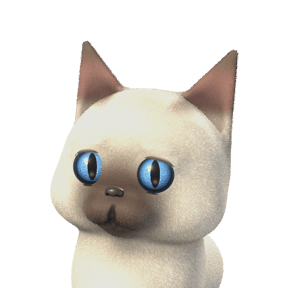
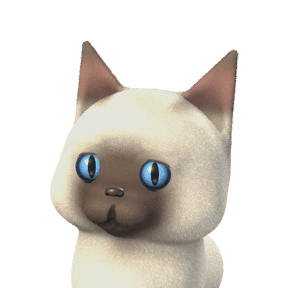
Neue Modelle: Katze, Siamkatze, Fuchs, Reh
Augen auf 0,155-0,17 (bleiben etwas groesser als echt), feinere Tigerung,
kraeftigere Siam-Maske, Reh mit laengerem Fell. Seeotter-Feinschliff im
Werkzeug. Alle drei Ausdruecke.

pruef-alles 9/9.

Changed region(s): [[0.2188, 0.4688, 0.6562, 0.8125], [0.4375, 0.8125, 0.4688, 0.8438]]

diff --git a/tools/figuren_rendern/Tiere.swift b/tools/figuren_rendern/Tiere.swift
@@ -486,7 +486,7 @@ func fuchs() -> (SCNNode, Float, V) {
     })
     let w = SCNNode(); w.addChildNode(brustKnoten(koerper))
     tierNase(w, mitte: V(0, -0.290, 1.740), r: V(0.115, 0.08, 0.10), farbe: hex("#161112"))
-    augenEinsetzen(w, kopf, x: 0.34, y: 0.18, r: 0.205, iris: NSColor(calibratedRed: 0.93, green: 0.63, blue: 0.16, alpha: 1), pupille: 0.62, schlitz: true, schlitzBreite: 0.52, ausdruck: Ausdruck(oben: 0.03, unten: 0.10, schraeg: 0.04, funke: 1.6, wange: 0.30))
+    augenEinsetzen(w, kopf, x: 0.34, y: 0.18, r: 0.17, iris: NSColor(calibratedRed: 0.93, green: 0.63, blue: 0.16, alpha: 1), pupille: 0.62, schlitz: true, schlitzBreite: 0.52, ausdruck: Ausdruck(oben: 0.03, unten: 0.10, schraeg: 0.04, funke: 1.6, wange: 0.30))
     // Kopfhaltung je Tier verschieden (Auftrag des Inhabers: nicht alle in dieselbe Richtung).
     w.eulerAngles = SCNVector3(0.08, -0.48, -0.06)
     return (w, 7.6, V(0, 0.22, 0.2))
@@ -511,9 +511,9 @@ func katze() -> (SCNNode, Float, V) {
         var c = farbeMitRauschen(rot, p, 0.07)
         // Tigerung: Streifen quer ueber Stirn und Wangen, auf der Stirn das "M".
         // feine Linien wie bei einer echten Tigerkatze: das "M" auf der Stirn, Linien ueber die Wangen
-        let band = sinf(p.x * 24 + sinf(p.y * 4) * 1.2 + fbm(p * 3) * 2) * 0.5 + 0.5
-        let stirn = glatt(0.30, 0.55, p.y) * glatt(0.62, 0.2, abs(p.x)) * glatt(0.80, 0.90, band)
-        let wange = glatt(0.35, 0.65, abs(p.x)) * glatt(0.82, 0.92, sinf(p.y * 20 + abs(p.x) * 5 + fbm(p * 3) * 2) * 0.5 + 0.5)
+        let band = sinf(p.x * 36 + sinf(p.y * 4) * 1.2 + fbm(p * 3) * 2) * 0.5 + 0.5
+        let stirn = glatt(0.30, 0.55, p.y) * glatt(0.62, 0.2, abs(p.x)) * glatt(0.86, 0.95, band)
+        let wange = glatt(0.35, 0.65, abs(p.x)) * glatt(0.87, 0.95, sinf(p.y * 30 + abs(p.x) * 5 + fbm(p * 3) * 2) * 0.5 + 0.5)
         c = mische(c, streifen, (stirn + wange * 0.8) * glatt(-0.4, 0.2, p.y + 0.5))
         // Weiss: Schnurrhaarpolster, Kinn.
         let weissAnteil = glatt(-0.08, -0.18, p.y) * glatt(0.35, 0.65, p.z) + glatt(-0.30, -0.42, p.y)
@@ -545,7 +545,7 @@ func katze() -> (SCNNode, Float, V) {
     })
     let w = SCNNode(); w.addChildNode(brustKnoten(koerper))
     tierNase(w, mitte: V(0, -0.08, 0.93), r: V(0.095, 0.06, 0.06), farbe: hex("#C97F7C"), dreieck: true)
-    augenEinsetzen(w, kopf, x: 0.33, y: 0.12, r: 0.21, iris: NSColor(calibratedRed: 0.62, green: 0.74, blue: 0.22, alpha: 1), pupille: 0.55, schlitz: true, schlitzBreite: 0.62, ausdruck: Ausdruck(oben: 0.10, unten: 0.07, schraeg: 0.14, funke: 1.5, wange: 0.40))
+    augenEinsetzen(w, kopf, x: 0.33, y: 0.12, r: 0.17, iris: NSColor(calibratedRed: 0.62, green: 0.74, blue: 0.22, alpha: 1), pupille: 0.55, schlitz: true, schlitzBreite: 0.62, ausdruck: Ausdruck(oben: 0.10, unten: 0.07, schraeg: 0.14, funke: 1.5, wange: 0.40))
     w.eulerAngles = SCNVector3(0.06, 0.34, 0.12)
     return (w, 7.3, V(0, 0.18, 0))
 }
@@ -731,10 +731,10 @@ func reh() -> (SCNNode, Float, V) {
     }, rauheit: 0.75, fell: 0.06)
     // Reh: nur ein Hauch heller ueber dem Auge (weisse Brauen hat es nicht); kurzes, anliegendes Fell.
     var (braue, braueM) = mitBrauen(kopf, x: 0.34, y: 0.41, laenge: 0.11, dicke: 0.045, winkel: 0.2, farbe: mische(braun, weiss, 0.30), staerke: 0.45, wulst: 0.6)
-    braue.haar = haarKarte(kopf, FellKarte(kopf: 0.025, rumpf: 0.03, nase: V(0, -0.360, 1.380), schnauze: 0.6,
+    braue.haar = haarKarte(kopf, FellKarte(kopf: 0.045, rumpf: 0.055, nase: V(0, -0.360, 1.380), schnauze: 0.6,
         augen: augenStellen(kopf, x: 0.36, y: 0.22), augenR: 0.17, braue: 0.3,
         zonen: beide(V(0.92, 0.62, -0.18), V(0.55, 0.30, 0.25), 0.6)), braue: braueM)
-    braue.fellArt = Fell(dichte: 100, aufrecht: 0.2, neigung: 1.6, ursprung: V(0, -0.360, 1.380), straehnen: 0.15)
+    braue.fellArt = Fell(dichte: 120, aufrecht: 0.28, neigung: 1.6, ursprung: V(0, -0.360, 1.380), wurzel: 0.58, spitze: 1.18, straehnen: 0.2, streuung: 0.16)
     // Reh: geschlossenes, schmales Maul tief an der Schnauzenspitze, mit kaum angehobenem Winkel — sanft.
     let maul = mitMaul(braue, Maul(kurven: [Kurve(punkte: [V(0, -0.470, 1.440), V(0, -0.525, 1.420)], spitzHinten: false)]
         + paar(Kurve(punkte: [V(0, -0.525, 1.420), V(0.08, -0.550, 1.350), V(0.15, -0.540, 1.230), V(0.20, -0.500, 1.120)], spitzVorn: false)),
@@ -747,7 +747,7 @@ func reh() -> (SCNNode, Float, V) {
     })
     let w = SCNNode(); w.addChildNode(brustKnoten(koerper))
     tierNase(w, mitte: V(0, -0.360, 1.380), r: V(0.18, 0.12, 0.10), farbe: hex("#141011"))
-    augenEinsetzen(w, kopf, x: 0.36, y: 0.22, r: 0.19, iris: NSColor(calibratedRed: 0.26, green: 0.14, blue: 0.08, alpha: 1), pupille: 0.55, aussen: 0.45, ausdruck: Ausdruck(oben: 0.14, unten: 0.05, schraeg: 0.26, funke: 1.5, wange: 0.40))
+    augenEinsetzen(w, kopf, x: 0.36, y: 0.22, r: 0.155, iris: NSColor(calibratedRed: 0.26, green: 0.14, blue: 0.08, alpha: 1), pupille: 0.55, aussen: 0.45, ausdruck: Ausdruck(oben: 0.14, unten: 0.05, schraeg: 0.26, funke: 1.5, wange: 0.40))
     w.eulerAngles = SCNVector3(0.10, 0.48, 0.04)
     return (w, 8.0, V(0, 0.15, 0.2))
 }
@@ -1143,8 +1143,8 @@ func seeotter() -> (SCNNode, Float, V) {
     let braun = hex("#5B3B27"), kopfHell = hex("#CBB497"), polster = hex("#E3D3BD")
     var formen: [Form] = [
         Form(art: .ellipsoid(V(0.92, 0.80, 0.84)), mitte: V(0, 0.08, 0)),
-        Form(art: .ellipsoid(V(0.27, 0.21, 0.23)), mitte: V(-0.21, -0.26, 0.80), weich: 0.18),
-        Form(art: .ellipsoid(V(0.27, 0.21, 0.23)), mitte: V(0.21, -0.26, 0.80), weich: 0.18),
+        Form(art: .ellipsoid(V(0.32, 0.25, 0.25)), mitte: V(-0.23, -0.27, 0.80), weich: 0.18),
+        Form(art: .ellipsoid(V(0.32, 0.25, 0.25)), mitte: V(0.23, -0.27, 0.80), weich: 0.18),
         Form(art: .ellipsoid(V(0.20, 0.15, 0.18)), mitte: V(0, -0.38, 0.74), weich: 0.16),
     ]
     for sx: Float in [-1, 1] {
@@ -1162,7 +1162,7 @@ func seeotter() -> (SCNNode, Float, V) {
     }, rauheit: 0.80, fell: 0.07)
     var (braue, braueM) = mitBrauen(kopf, x: 0.30, y: 0.38, laenge: 0.11, dicke: 0.05, winkel: 0.20, farbe: mische(kopfHell, polster, 0.5), staerke: 0.6)
     braue.haar = haarKarte(kopf, FellKarte(kopf: 0.06, rumpf: 0.09, nase: V(0, -0.12, 1.02), schnauze: 0.35,
-        augen: augenStellen(kopf, x: 0.33, y: 0.20), augenR: 0.12,
+        augen: augenStellen(kopf, x: 0.36, y: 0.22), augenR: 0.10,
         zonen: beide(V(0.21, -0.26, 0.85), V(0.27, 0.21, 0.23), 0.8)), braue: braueM)
     braue.fellArt = Fell(dichte: 75, ursprung: V(0, -0.12, 1.10), straehnen: 0.4)
     let maul = mitMaul(braue, Maul(kurven: [Kurve(punkte: [V(0, -0.24, 1.03), V(0, -0.33, 1.00), V(0, -0.40, 0.95)], spitzHinten: false)]
@@ -1173,8 +1173,8 @@ func seeotter() -> (SCNNode, Float, V) {
         mische(farbeMitRauschen(braun, p, 0.08), farbeMitRauschen(kopfHell, p, 0.06), latz(p, breite: 0.22) * 0.12)
     })
     let w = SCNNode(); w.addChildNode(brustKnoten(koerper))
-    tierNase(w, mitte: V(0, -0.12, 1.02), r: V(0.16, 0.11, 0.10), farbe: hex("#1A1310"))
-    augenEinsetzen(w, kopf, x: 0.33, y: 0.20, r: 0.13, iris: NSColor(calibratedRed: 0.12, green: 0.08, blue: 0.06, alpha: 1), pupille: 0.7, ausdruck: Ausdruck(oben: 0.08, unten: 0.04, schraeg: 0.15, funke: 1.7))
+    tierNase(w, mitte: V(0, -0.12, 1.02), r: V(0.19, 0.12, 0.10), farbe: hex("#1A1310"))
+    augenEinsetzen(w, kopf, x: 0.36, y: 0.22, r: 0.10, iris: NSColor(calibratedRed: 0.12, green: 0.08, blue: 0.06, alpha: 1), pupille: 0.7, ausdruck: Ausdruck(oben: 0.08, unten: 0.04, schraeg: 0.15, funke: 1.7))
     w.eulerAngles = SCNVector3(0.04, 0.20, -0.05)
     return (w, 7.3, V(0, 0.15, 0))
 }
@@ -1499,7 +1499,7 @@ func siamkatze() -> (SCNNode, Float, V) {
     let kopf = Koerper(formen: formen, farbe: { p, n in
         var c = farbeMitRauschen(creme, p, 0.05)
         // die Maske: um Nase und Schnauze am dunkelsten, zu den Augen hin weich
-        let maske = region(p, V(0, -0.16, 0.86), V(0.44, 0.44, 0.40), 0.5)
+        let maske = region(p, V(0, -0.12, 0.84), V(0.54, 0.52, 0.46), 0.35)
         c = mische(c, farbeMitRauschen(punkt, p, 0.06), maske * 0.95)
         let ohr = glatt(0.62, 0.80, p.y) * glatt(0.25, 0.40, abs(p.x))
         c = mische(c, punkt, ohr * 0.9)
@@ -1519,7 +1519,7 @@ func siamkatze() -> (SCNNode, Float, V) {
     let koerper = brustbild(maul, vierbeiner(bau), farbe: { p, _ in farbeMitRauschen(creme, p, 0.05) })
     let w = SCNNode(); w.addChildNode(brustKnoten(koerper))
     tierNase(w, mitte: V(0, -0.08, 0.91), r: V(0.09, 0.06, 0.06), farbe: hex("#3A2A24"), dreieck: true)
-    augenEinsetzen(w, kopf, x: 0.31, y: 0.12, r: 0.20, iris: NSColor(calibratedRed: 0.36, green: 0.62, blue: 0.92, alpha: 1), pupille: 0.50, schlitz: true, schlitzBreite: 0.55, ausdruck: Ausdruck(oben: 0.14, unten: 0.08, schraeg: 0.22, funke: 1.5, wange: 0.3))
+    augenEinsetzen(w, kopf, x: 0.31, y: 0.12, r: 0.17, iris: NSColor(calibratedRed: 0.36, green: 0.62, blue: 0.92, alpha: 1), pupille: 0.50, schlitz: true, schlitzBreite: 0.55, ausdruck: Ausdruck(oben: 0.14, unten: 0.08, schraeg: 0.22, funke: 1.5, wange: 0.3))
     w.eulerAngles = SCNVector3(0.05, -0.30, -0.10)
     return (w, 7.3, V(0, 0.18, 0))
 }

diff --git a/docs/ios-huelle-journal.md b/docs/ios-huelle-journal.md
@@ -7,7 +7,7 @@ gehoert ebenfalls hierher — nicht stillschweigend uebersprungen. Neueste Eintr
 
 ---
 
-## ÜBERGABE an die naechste Sitzung (Stand 2026-10-29, nach Runde 193)
+## ÜBERGABE an die naechste Sitzung (Stand 2026-10-29, nach Runde 194)
 
 **Lies NUR diesen Block.** Er genuegt allein; die Eintraege darunter sind Begruendungen zum
 Nachschlagen. Dazu `tools/xcode-CLAUDE.md` (liegt als `ios/App/CLAUDE.md` neben der `.xcodeproj`
@@ -54,7 +54,8 @@ Regeln, die er gesetzt hat:
 
 | Runde | Commit | Inhalt |
 | --- | --- | --- |
-| 193 | (dieser) | Neue Modelle: Wal laenger, Delfin mit Schnabel, Seeotter dunkler Koerper, kleinere Augen |
+| 194 | (dieser) | Katze, Siamkatze, Fuchs, Reh: kleinere Augen, feinere Tigerung, kraeftigere Siam-Maske, Reh-Fell |
+| 193 | `4f77b6a` | Neue Modelle: Wal laenger, Delfin mit Schnabel, Seeotter dunkler Koerper, kleinere Augen |
 | 192 | `4bd9578` | Neue Modelle: Rotkehlchen, Waldkauz (ohne Federohren), Hellroter Ara, Flamingo |
 | 191 | `e6b51a5` | Pinguin als neues Modell: Koenigspinguin-Brustbild, Ausdruck ueber die Haltung |
 | 190 | `20721e9` | Mehr Fotorealismus: Gefieder als Fellschalen, Hase/Dackel/Hunde natuerlicher |
@@ -248,7 +249,7 @@ Regeln, die er gesetzt hat:
 
 ### Was offen ist
 
-**Kein laufender Auftrag.** Runden 165–193 sind erledigt und gepusht. Der naechste Auftrag kommt im Gespraech.
+**Kein laufender Auftrag.** Runden 165–194 sind erledigt und gepusht. Der naechste Auftrag kommt im Gespraech.
 
 *Wartet auf eine Entscheidung des Inhabers (aus Runde 179, mit Empfehlung vorgelegt — nicht ungefragt bauen):*
 - **Mindestversion iOS 16.4** statt 15.0 (Empfehlung). Grund: 62× `color-mix()` (erst ab 16.2) ohne Ersatz, Strahlenkranz
@@ -342,6 +343,8 @@ Startbild. Das allererste Startbild zeichnet iOS vor dem App-Start — **nicht n
   (ausser `#myCode`); Teilbild 1080×1350; keine Striche mit runden Enden auf Avatargroesse.
 
 ### Stand der Pruefungen
+
+**Nach Runde 194: ALLE 9 BESTANDEN**.
 
 **Nach Runde 193: ALLE 9 BESTANDEN**.
 
@@ -525,6 +528,16 @@ Bitte. Arbeitsbaum sauber bis auf `ios/App/App.xcworkspace/xcshareddata/` (absic
 Pruefstand: `pruef-alles` 9/9 — `tests` 10 Reihen, `pruef-app` 36, `pruef-nativ` 102, `fehlersuche` 28 ohne Fund.
 
 ---
+
+## Runde 194 — Neue Modelle Gruppe 3: Katze, Siamkatze, Fuchs, Reh
+
+**Augen:** Katze, Siamkatze, Fuchs lagen bei 0,20–0,21, das Reh bei 0,19 — auf 0,155–0,17 genommen. Bleibt sichtbar groesser als echt
+(Entscheidung des Inhabers „echt, aber liebenswert"), wirkt aber nicht mehr comichaft. **Katze:** Tigerlinien feiner und dichter
+(lasen sich als aufgemalte Balken). **Siamkatze:** dunkle Maske groesser und kraeftiger. **Reh:** Fell laenger und unregelmaessiger.
+Dackel, Retriever, Mops, Baer, Panda, Hase bleiben auf dem Stand von Runde 190 (dort schon naeher am Foto).
+
+**Offen:** Das Reh bleibt am weitesten vom Foto entfernt (Hals und Koerper zu glatt und rund) — ein Neubau wie beim Pinguin waere
+der naechste Schritt; ebenso fuer Katze und Retriever die Kopfproportionen (Welpe statt erwachsen). Alle drei Ausdruecke neu.
 
 ## Runde 193 — Neue Modelle Gruppe 2: Wal, Delfin, Seeotter, Schildkroete, Goldfisch
 
